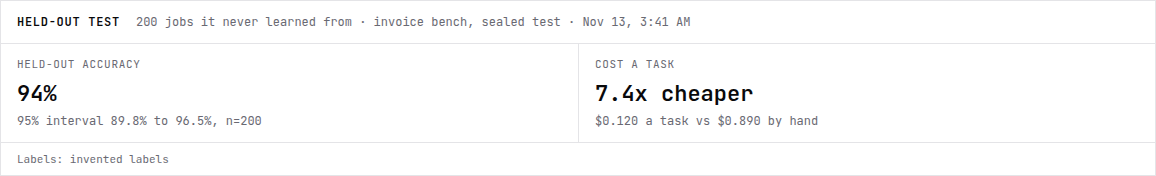
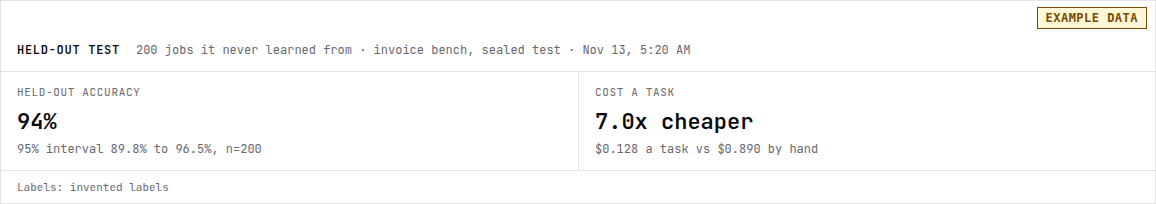
Learning tab: one ratio format, one example agent, Example data badge on shots
- timesOf: a tenth under 10x, whole from 10x, used by the held-out card and the chart's after-takeover label.
- The example eval record agrees with the example chart (7.0x both).
- The e2e shooting step draws an Example data badge on the card shots; docs images re-shot with it.

diff --git a/apps/console/src/components/CostPerRun.test.tsx b/apps/console/src/components/CostPerRun.test.tsx
@@ -4,7 +4,7 @@ import { afterEach, describe, expect, it } from "vitest";
 import { CostChart, CostPerRun, HOW } from "./CostPerRun";
 import SAMPLE from "./CostPerRun.sample.json";
 import { ClientError, type Client } from "@/lib/client";
-import { blocksOf, blockSizeOf, level, nearest, niceTop, pct, plotted, rollingMean, runTicks, usd, windowOf, yTicksOf, yTopOf } from "@/lib/costPerRun";
+import { blocksOf, blockSizeOf, level, nearest, niceTop, pct, plotted, rollingMean, runTicks, timesOf, usd, windowOf, yTicksOf, yTopOf } from "@/lib/costPerRun";
 import type { CostRun, LearningCost } from "@/lib/v2";
 
 // The cost per run chart (GET /v2/agents/{id}/learning/cost): the invented invoice-sorter agent's 80 runs, its cost
@@ -57,6 +57,12 @@ describe("the chart's arithmetic", () => {
   });
 });
 
+describe("the ratio format", () => {
+  it("says a tenth under 10x and a whole number from 10x, one format for the headline card and the chart", () => {
+    expect([timesOf(7), timesOf(7.4), timesOf(6.953), timesOf(9.94), timesOf(9.96), timesOf(10), timesOf(12.4), timesOf(0.5), timesOf(104.6)]).toEqual(["7.0x", "7.4x", "7.0x", "9.9x", "10x", "10x", "12x", "0.5x", "105x"]);
+  });
+});
+
 describe("the execution mix's arithmetic", () => {
   it("cuts every run, its cost known or not, one a column up to 20, then into blocks of 5 or more, about 20 blocks at most", () => {
     expect([blockSizeOf(3), blockSizeOf(20), blockSizeOf(21), blockSizeOf(80), blockSizeOf(400), blockSizeOf(1000)]).toEqual([1, 1, 5, 5, 20, 50]);
@@ -78,9 +84,9 @@ describe("the execution mix's arithmetic", () => {
 describe("CostChart", () => {
   it("shows the drop: the levels before and after, the takeover, and how many times cheaper", () => {
     const host = draw(sample);
-    expect(text(host)).toContain("$0.890 a run before learning, $0.128 after takeover: 7x cheaper");
+    expect(text(host)).toContain("$0.890 a run before learning, $0.128 after takeover: 7.0x cheaper");
     expect(text(host)).toContain("Workflow took over, run 21");
-    expect(text(host)).toContain("After takeover $0.128 · 7x cheaper");
+    expect(text(host)).toContain("After takeover $0.128 · 7.0x cheaper");
     expect(text(host)).toContain("Before learning $0.890");
     expect(text(host)).toContain("Rolling mean of 5 runs");
     expect(text(host)).toContain("1 run costs more than");
@@ -94,7 +100,7 @@ describe("CostChart", () => {
   });
   it("on a phone the level's words are short enough to clear the line's drop", () => {
     const host = draw(sample, true, 390);
-    expect(text(host)).toContain("After $0.128 · 7x cheaper");
+    expect(text(host)).toContain("After $0.128 · 7.0x cheaper");
     expect(text(host)).not.toContain("After takeover $0.128");
   });
   it("carries the takeover marker down through the mix as one line on the left edge of the takeover's block, never a ring cutting a column", () => {
@@ -183,7 +189,7 @@ describe("CostChart", () => {
   });
   it("keeps the level after the takeover when the takeover is older than the runs read, without its marker", () => {
     const host = draw({ ...sample, runs: sample.runs.slice(40), total_runs: 80 });
-    expect(text(host)).toContain("After takeover $0.128 · 7x cheaper");
+    expect(text(host)).toContain("After takeover $0.128 · 7.0x cheaper");
     expect(text(host)).not.toContain("Workflow took over, run 21");
   });
   it("says only the latest runs are drawn when the server sent fewer than there are", () => {

diff --git a/apps/console/src/components/HeldOutTest.tsx b/apps/console/src/components/HeldOutTest.tsx
@@ -2,7 +2,7 @@ import { useEffect, useState } from "react";
 import { Bone } from "@/components/Skeleton";
 import { problem, ProblemCard } from "@/components/learningProblem";
 import type { Client } from "@/lib/client";
-import { level } from "@/lib/costPerRun";
+import { level, timesOf } from "@/lib/costPerRun";
 import { when } from "@/lib/format";
 import type { LearningEval, LearningEvals } from "@/lib/v2";
 
@@ -20,12 +20,12 @@ const percent = (share: number) => `${Math.round(share * 1000) / 10}%`;
 export function headlineOf(record: LearningEval) {
   const { cost_per_task_usd: learned, baseline_cost_per_task_usd: hand } = record;
   const counted = learned !== null && hand !== null;
-  const times = counted && learned > 0 ? Math.round((hand / learned) * 10) / 10 : null;
+  const times = counted && learned > 0 ? hand / learned : null;
   const [lo, hi] = record.ci;
   return {
     accuracy: percent(record.accuracy),
     accuracyVs: `95% interval ${percent(lo!)} to ${percent(hi!)}, n=${record.n.toLocaleString("en-US")}`,
-    cost: !counted ? (learned !== null ? level(learned) : "Not counted") : times === null || hand === 0 ? level(learned) : times >= 1 ? `${times}x cheaper` : `${Math.round((learned / hand) * 10) / 10}x the cost`,
+    cost: !counted ? (learned !== null ? level(learned) : "Not counted") : times === null || hand === 0 ? level(learned) : times >= 1 ? `${timesOf(times)} cheaper` : `${timesOf(learned / hand)} the cost`,
     costVs: counted ? `${level(learned)} a task vs ${level(hand)} by hand` : learned !== null ? `${level(learned)} a task; by hand not counted` : "The test did not count the cost a task.",
   };
 }

diff --git a/apps/console/src/components/CostPerRun.tsx b/apps/console/src/components/CostPerRun.tsx
@@ -2,7 +2,7 @@ import { type KeyboardEvent, type PointerEvent, useEffect, useMemo, useRef, useS
 import { Bone } from "@/components/Skeleton";
 import { problem, ProblemCard } from "@/components/learningProblem";
 import type { Client } from "@/lib/client";
-import { type Block, blockSizeOf, blocksOf, level, nearest, PATHS, pathOf, pct, plotted, type Point, rollingMean, runTicks, usd, windowOf, yTicksOf, yTopOf } from "@/lib/costPerRun";
+import { type Block, blockSizeOf, blocksOf, level, nearest, PATHS, pathOf, pct, plotted, type Point, rollingMean, runTicks, timesOf, usd, windowOf, yTicksOf, yTopOf } from "@/lib/costPerRun";
 import { when } from "@/lib/format";
 import { cn } from "@/lib/utils";
 import type { CostRun, LearningCost } from "@/lib/v2";
@@ -93,7 +93,7 @@ export function CostChart({ data, on, width: fixed }: { data: LearningCost; on: 
   const afterFrom = s.takeover ? Math.max(s.takeover.n, first) : null;
   const line = points.map((p, i) => `${i ? "L" : "M"}${x(p.n).toFixed(1)},${y(mean[i]!).toFixed(1)}`).join("");
   const at = active === null ? null : points[active]!;
-  const cheaper = s.times_cheaper !== null ? `${s.times_cheaper}x cheaper` : null;
+  const cheaper = s.times_cheaper !== null ? `${timesOf(s.times_cheaper)} cheaper` : null;
   const headline = s.before && s.after ? `${level(s.before.mean_usd)} a run before learning, ${level(s.after.mean_usd)} after takeover${cheaper ? `: ${cheaper}` : ""}` : null;
 
   const pick = (e: PointerEvent<SVGSVGElement>) => {

diff --git a/apps/console/src/components/HeldOutTest.test.tsx b/apps/console/src/components/HeldOutTest.test.tsx
@@ -32,7 +32,7 @@ describe("the held-out headline", () => {
     });
     expect(headlineOf({ ...RESULT, baseline_cost_per_task_usd: null })).toMatchObject({ cost: "$0.120", costVs: "$0.120 a task; by hand not counted" });
     expect(headlineOf({ ...RESULT, cost_per_task_usd: null, baseline_cost_per_task_usd: null })).toMatchObject({ cost: "Not counted", costVs: "The test did not count the cost a task." });
-    expect(headlineOf({ ...RESULT, cost_per_task_usd: 1.78 }).cost).toBe("2x the cost");
+    expect(headlineOf({ ...RESULT, cost_per_task_usd: 1.78 }).cost).toBe("2.0x the cost");
     // A free baseline has no ratio: the dollar figures, never "Infinityx the cost".
     expect(headlineOf({ ...RESULT, baseline_cost_per_task_usd: 0 })).toMatchObject({ cost: "$0.120", costVs: "$0.120 a task vs $0 by hand" });
   });

diff --git a/apps/console/src/lib/costPerRun.ts b/apps/console/src/lib/costPerRun.ts
@@ -113,5 +113,12 @@ export function blocksOf(runs: readonly CostRun[], size: number): Block[] {
   return blocks;
 }
 
+/** A cost ratio as a person reads it, the one format of every "N times" the console says: a tenth under 10 ("7.0x",
+ *  "7.4x"), a whole number from 10 up ("12x"). */
+export function timesOf(ratio: number): string {
+  const tenth = Math.round(ratio * 10) / 10;
+  return `${tenth >= 10 ? Math.round(tenth) : tenth.toFixed(1)}x`;
+}
+
 /** A share as a person reads it: a whole percent. */
 export const pct = (part: number, whole: number) => `${whole ? Math.round((part / whole) * 100) : 0}%`;

diff --git a/docs/tutorials/learn-then-hand-off.md b/docs/tutorials/learn-then-hand-off.md
@@ -60,7 +60,7 @@ it took (the agent by hand, a learned workflow that handed back, or the workflow
 the agent's cost before learning as a dashed line, a marker at the first run the workflow finished alone, and the
 level after it. Once 20 runs stand behind that level, it says how many times cheaper it is.
 
-![The cost per run chart: about $0.89 a run by hand, a marker where the learned workflow took over at run 21, then about $0.13 a run, 7x cheaper; under it, who finished each block of 5 runs, the learned workflow's share growing from run 21](../assets/tutorials/cost-per-run.png)
+![The cost per run chart: about $0.89 a run by hand, a marker where the learned workflow took over at run 21, then about $0.13 a run, 7.0x cheaper (marked Example data); under it, who finished each block of 5 runs, the learned workflow's share growing from run 21](../assets/tutorials/cost-per-run.png)
 
 The chart above is an invented agent's runs. `agentrun learning cost <agent> --format csv` writes your agent's series as
 CSV, to plot or check yourself (`GET /v2/agents/{id}/learning/cost` answers it as JSON).
@@ -76,12 +76,12 @@ platform computes from the counts, and the cost a task against by hand.
 ```sh
 cat > eval.json <<'JSON'
 { "name": "invoice bench, sealed test", "label_source": "invented labels", "n": 200, "correct": 188,
-  "cost_per_task_usd": 0.12, "baseline_cost_per_task_usd": 0.89 }
+  "cost_per_task_usd": 0.128, "baseline_cost_per_task_usd": 0.89 }
 JSON
 agentrun learning record-eval mcc --body @eval.json
 ```
 
-![The held-out test card: 94% held-out accuracy, 95% interval 89.8% to 96.5% over 200 jobs, and 7.4x cheaper a task than by hand](../assets/tutorials/held-out-test.png)
+![The held-out test card: 94% held-out accuracy, 95% interval 89.8% to 96.5% over 200 jobs, and 7.0x cheaper a task than by hand ($0.128 against $0.890), both marked Example data](../assets/tutorials/held-out-test.png)
 
 Only counts go in: never the jobs themselves. Until a test is recorded the card says "Not measured yet"; the tab
 never passes the agent's own runs off as a held-out figure.

diff --git a/docs/assets/README.md b/docs/assets/README.md
@@ -43,6 +43,8 @@ Font License) on the same palette.
 by the `cost-per-run` real-browser flow at 1440 px in the light theme (`E2E_SHOTS=<dir> npm run test:e2e -- --only
 cost-per-run` from the repository's root).
 
+Both carry an "Example data" badge on the picture itself, drawn by the flow's shooting step (`markExample` in `apps/console/e2e/harness.mjs`), never by the product.
+
 `tutorials/held-out-test.png` is the Learning tab's Held-out test card for the same invented agent, from a record the
 `cost-per-run` flow posts through the API (200 jobs, 188 right), captured by that flow at 1440 px in the light theme.
 
